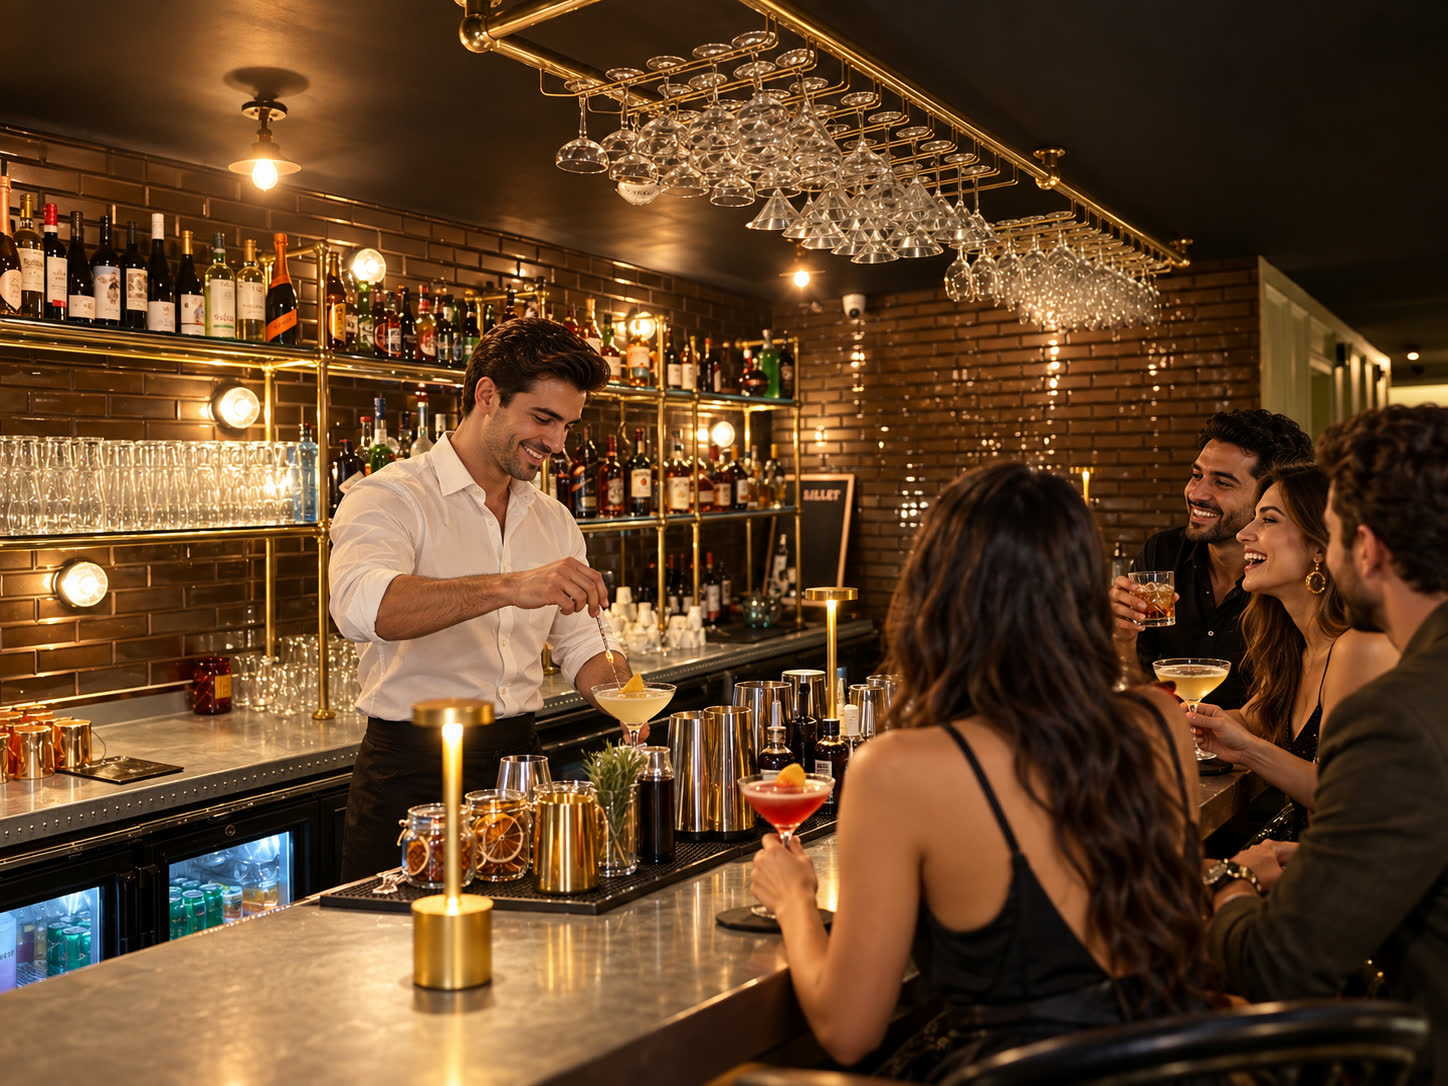
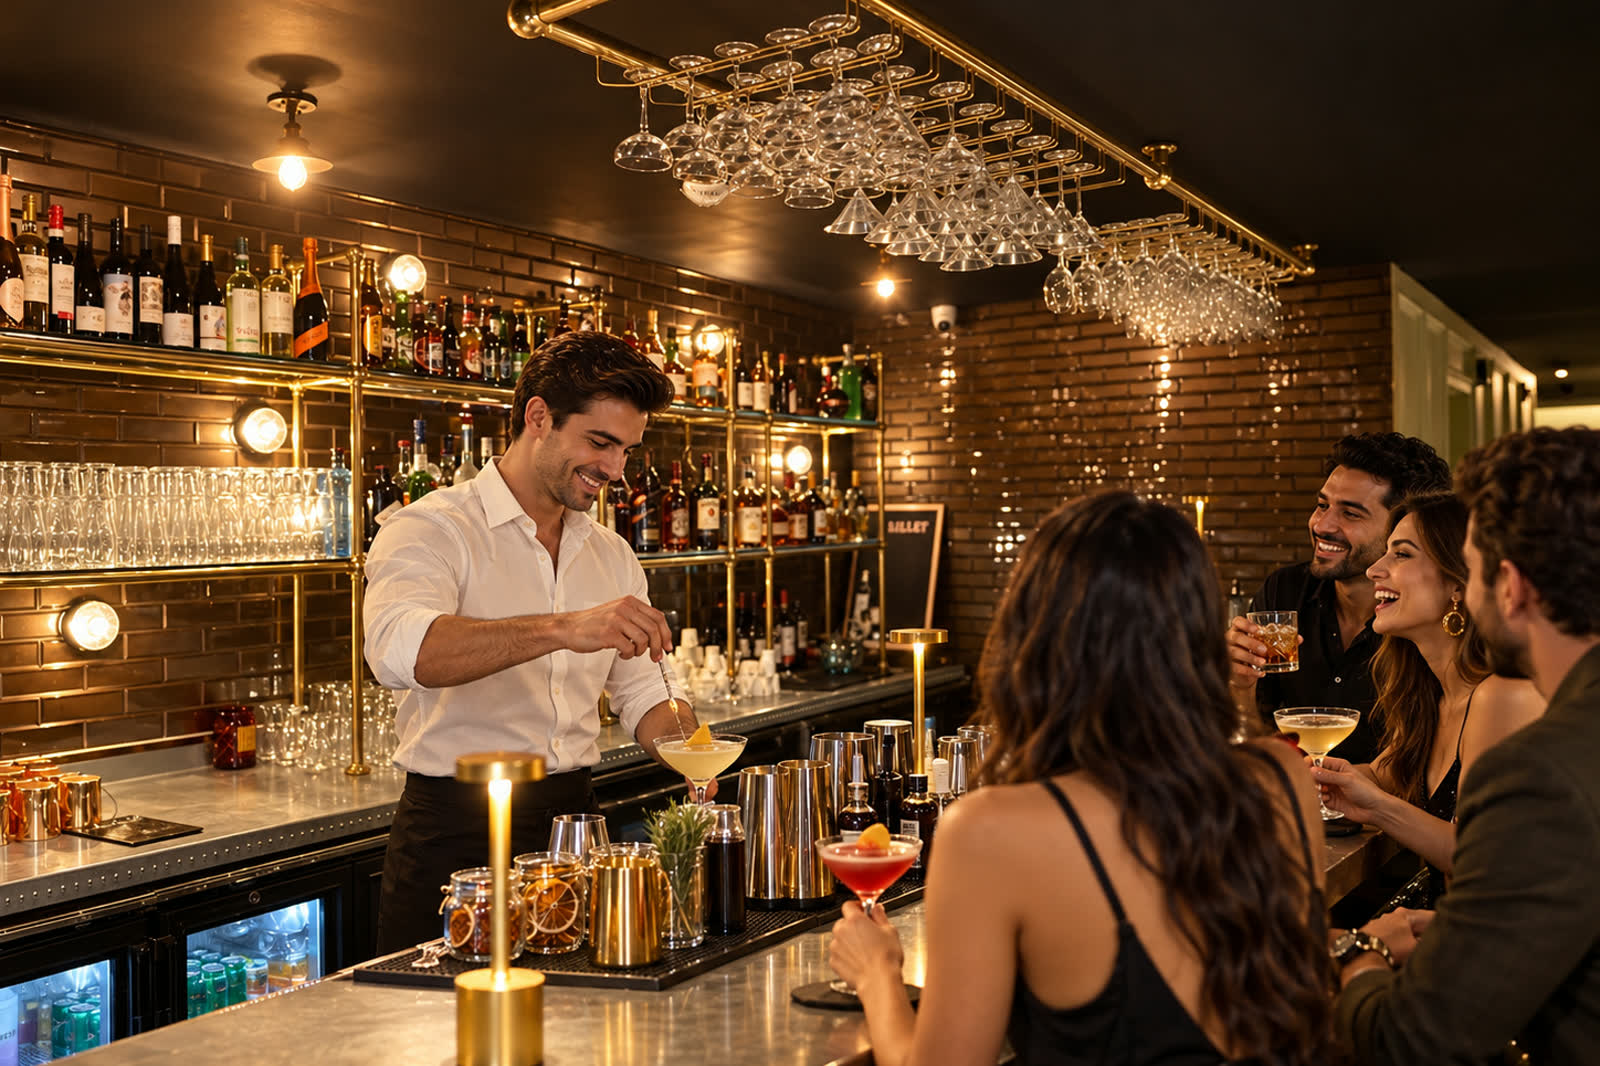
Recompose hero crops, localize address, drop AI em-dashes
- PageHero gains an imgPosition prop; the six page-hero photos are
  re-exported as landscape (3:2) crops so they fill the wide hero band
  instead of showing a ~25% vertical slice
- Experiences private-dining and The House "Library" tile get their own
  correctly-oriented images (privateDining, libraryTile)
- Address changed to BLJC, 136 Newark Avenue, Jersey City, NJ 07302
  (Contact, footer, map label, hero subtitles, legacy eyebrow)
- "Reserve Your Experience" -> "Reserve Your Table"
- Replace em/en dashes in body copy with periods, colons or hyphens

diff --git a/src/pages/Contact.jsx b/src/pages/Contact.jsx
@@ -5,7 +5,7 @@ import { IMAGES } from "@/lib/images";
 import { ChevronDown, Clock, MapPin, Phone, User } from "lucide-react";
 
 const FAQ = [
-  { q: "What is the dress code?", a: "Smart elegant. We ask guests to honour the house — no sportswear or open footwear after 8 PM." },
+  { q: "What is the dress code?", a: "Smart elegant. We ask guests to honour the house. No sportswear or open footwear after 8 PM." },
   { q: "Is there an age restriction?", a: "Yes. The House is strictly 21 and above. Valid identification is required at entry." },
   { q: "What is the cancellation policy?", a: "Reservations may be modified or cancelled up to 24 hours prior. Within 24 hours, a 50% hold applies to the booking." },
   { q: "Is valet available?", a: "Complimentary valet is offered for all reserved guests from 6 PM onward at the main entrance." },
@@ -32,7 +32,7 @@ export default function Contact() {
         image={IMAGES.contactHero}
         eyebrow="Contact"
         title="Get In Touch"
-        subtitle="Mumbai, India"
+        subtitle="Jersey City, New Jersey"
       />
 
       {/* Split screen */}
@@ -48,14 +48,14 @@ export default function Contact() {
                 <MapPin size={18} className="text-gold mt-1 shrink-0" />
                 <div>
                   <p className="font-heading text-[10px] uppercase tracking-luxe text-muted-gold mb-1">Address</p>
-                  <p className="font-body text-sm text-champagne/80">12 Marine Drive, Nariman Point, Mumbai 400021, India</p>
+                  <p className="font-body text-sm text-champagne/80">BLJC, 136 Newark Avenue, Jersey City, NJ 07302</p>
                 </div>
               </div>
               <div className="flex gap-4">
                 <Clock size={18} className="text-gold mt-1 shrink-0" />
                 <div>
                   <p className="font-heading text-[10px] uppercase tracking-luxe text-muted-gold mb-1">Hours</p>
-                  <p className="font-body text-sm text-champagne/80">Tue – Sun · 6:00 PM to 1:00 AM</p>
+                  <p className="font-body text-sm text-champagne/80">Tuesday to Sunday · 6:00 PM to 1:00 AM</p>
                   <p className="font-body text-sm text-champagne/60">Closed Mondays</p>
                 </div>
               </div>
@@ -80,7 +80,7 @@ export default function Contact() {
               <div className="absolute inset-0 flex items-center justify-center">
                 <div className="text-center">
                   <MapPin size={28} className="text-gold mx-auto mb-3" />
-                  <p className="font-heading text-[10px] uppercase tracking-luxe text-muted-gold">Mumbai, India</p>
+                  <p className="font-heading text-[10px] uppercase tracking-luxe text-muted-gold">Jersey City, NJ</p>
                 </div>
               </div>
               <div className="absolute inset-0 opacity-20" style={{ backgroundImage: "linear-gradient(rgba(197,160,89,0.3) 1px, transparent 1px), linear-gradient(90deg, rgba(197,160,89,0.3) 1px, transparent 1px)", backgroundSize: "32px 32px" }} />

diff --git a/src/pages/Journeys.jsx b/src/pages/Journeys.jsx
@@ -7,7 +7,7 @@ import { IMAGES } from "@/lib/images";
 const JOURNEYS = [
   {
     name: "The Innovators",
-    desc: "Exploring pioneering wood finishes — ex-bourbon, ex-sherry, and the experimental casks that rewrote what Indian malt could be.",
+    desc: "Exploring pioneering wood finishes: ex-bourbon, ex-sherry, and the experimental casks that rewrote what Indian malt could be.",
     duration: "60 min",
     pours: "4 × 15ml",
     price: "₹4,500 / person",
@@ -20,7 +20,7 @@ const JOURNEYS = [
   },
   {
     name: "The Angel's Share",
-    desc: "A focus on rapid tropical maturation — how heat, humidity and time compress decades of flavour into a few intense years.",
+    desc: "A focus on rapid tropical maturation, and how heat, humidity and time compress decades of flavour into a few intense years.",
     duration: "60 min",
     pours: "4 × 15ml",
     price: "₹5,200 / person",
@@ -33,7 +33,7 @@ const JOURNEYS = [
   },
   {
     name: "Land & Time",
-    desc: "A terroir-focused flight tracing Indian barley origins — from the northern plains to the southern coast, in four glasses.",
+    desc: "A terroir-focused flight tracing Indian barley origins, from the northern plains to the southern coast, in four glasses.",
     duration: "60 min",
     pours: "4 × 15ml",
     price: "₹4,800 / person",
@@ -45,7 +45,7 @@ const JOURNEYS = [
   },
   {
     name: "The Rare & Exceptional",
-    desc: "Poured from cask-strength and limited allocations — bottles that exist in handfuls, opened only for those who journey here.",
+    desc: "Poured from cask-strength and limited allocations: bottles that exist in handfuls, opened only for those who journey here.",
     duration: "75 min",
     pours: "4 × 15ml",
     price: "₹7,500 / person",
@@ -62,6 +62,7 @@ export default function Journeys() {
     <>
       <PageHero
         image={IMAGES.journeysHero}
+        imgPosition="50% 38%"
         eyebrow="Journeys"
         title="Curated Journeys"
         subtitle="Four guided tasting flights, narrated by the sommelier."
@@ -115,7 +116,7 @@ export default function Journeys() {
       <section className="py-24 bg-onyx border-t border-gold/10">
         <Reveal className="mx-auto max-w-luxe px-6 text-center">
           <p className="font-display italic text-2xl sm:text-3xl text-champagne/85 max-w-3xl mx-auto leading-relaxed">
-            "Each journey is guided — the sommelier pours, and the story follows. You are not
+            "Each journey is guided. The sommelier pours, and the story follows. You are not
             drinking; you are listening."
           </p>
         </Reveal>

diff --git a/src/pages/Experiences.jsx b/src/pages/Experiences.jsx
@@ -9,21 +9,21 @@ const PILLARS = [
   {
     name: "Classic",
     duration: "60 min",
-    group: "1–4 guests",
+    group: "1-4 guests",
     tier: "₹₹",
     desc: "Familiar, through an Amrut lens. A guided flight of house expressions served neat, with still water and a brief on each pour's origin.",
   },
   {
     name: "Contemporary",
     duration: "75 min",
-    group: "1–6 guests",
+    group: "1-6 guests",
     tier: "₹₹₹",
-    desc: "Classics reinterpreted. Our mixologists rebuild the canon — Old Fashioned, Manhattan, Sour — around Amrut's single malts, tableside.",
+    desc: "Classics reinterpreted. Our mixologists rebuild the canon of the Old Fashioned, Manhattan and Sour around Amrut's single malts, tableside.",
   },
   {
     name: "Signature",
     duration: "90 min",
-    group: "1–8 guests",
+    group: "1-8 guests",
     tier: "₹₹₹₹",
     desc: "The spirit of India. Rare allocations paired with regional plates, narrated by the sommelier from the Tasting Cart.",
   },
@@ -36,6 +36,7 @@ export default function Experiences() {
     <>
       <PageHero
         image={IMAGES.experiencesHero}
+        imgPosition="50% 35%"
         eyebrow="Experiences"
         title="Experiences"
         subtitle="Curated evenings, composed pour by pour."
@@ -110,7 +111,7 @@ export default function Experiences() {
               </h2>
               <p className="font-body text-base text-champagne/65 leading-relaxed mb-8 max-w-md">
                 A private experience where the mixologist wheels the cart to your booth and composes
-                each cocktail in the glow of candlelight — bitters measured by eye, ice cut by hand,
+                each cocktail in the glow of candlelight. Bitters measured by eye, ice cut by hand,
                 every gesture part of the performance.
               </p>
               <Link
@@ -146,7 +147,7 @@ export default function Experiences() {
             </Link>
           </Reveal>
           <Reveal delay={0.15} className="order-1 lg:order-2 relative aspect-[4/3] overflow-hidden">
-            <img src={IMAGES.privateBooth} alt="Private booth" className="h-full w-full object-cover" />
+            <img src={IMAGES.privateDining} alt="Private booth" className="h-full w-full object-cover" />
             <div className="absolute inset-0 border border-gold/20 m-3 pointer-events-none" />
           </Reveal>
         </div>

diff --git a/src/pages/TastingRoom.jsx b/src/pages/TastingRoom.jsx
@@ -20,16 +20,16 @@ const MENU = {
     { name: "Amrut Naarangi", notes: "Orange · Oak · Spice", abv: "40%", price: "₹1,250 / dram" },
   ],
   "Vintage Flight Collections": [
-    { name: "Founders Reserve Flight", notes: "3 × 15ml · House Lineage", abv: "—", price: "₹3,800" },
-    { name: "Ex-Bourbon Cask Flight", notes: "3 × 15ml · Vanilla Forward", abv: "—", price: "₹4,200" },
-    { name: "Sherry Cask Flight", notes: "3 × 15ml · Dark Fruit", abv: "—", price: "₹4,800" },
-    { name: "Cask Strength Flight", notes: "3 × 15ml · Untamed", abv: "—", price: "₹5,400" },
+    { name: "Founders Reserve Flight", notes: "3 × 15ml · House Lineage", abv: "", price: "₹3,800" },
+    { name: "Ex-Bourbon Cask Flight", notes: "3 × 15ml · Vanilla Forward", abv: "", price: "₹4,200" },
+    { name: "Sherry Cask Flight", notes: "3 × 15ml · Dark Fruit", abv: "", price: "₹4,800" },
+    { name: "Cask Strength Flight", notes: "3 × 15ml · Untamed", abv: "", price: "₹5,400" },
   ],
   "Small Bites": [
-    { name: "Truffle Bhelpuri", notes: "Black Truffle · Puffed Rice", abv: "—", price: "₹650" },
-    { name: "Malai Tikka Skewers", notes: "Charcoal · Cream · Saffron", abv: "—", price: "₹780" },
-    { name: "Goan Sausage Toast", notes: "Smoked · Vinegar · Chili", abv: "—", price: "₹720" },
-    { name: "Dark Chocolate & Cask", notes: "70% Cacao · Oak-aged Cream", abv: "—", price: "₹590" },
+    { name: "Truffle Bhelpuri", notes: "Black Truffle · Puffed Rice", abv: "", price: "₹650" },
+    { name: "Malai Tikka Skewers", notes: "Charcoal · Cream · Saffron", abv: "", price: "₹780" },
+    { name: "Goan Sausage Toast", notes: "Smoked · Vinegar · Chili", abv: "", price: "₹720" },
+    { name: "Dark Chocolate & Cask", notes: "70% Cacao · Oak-aged Cream", abv: "", price: "₹590" },
   ],
 };
 

diff --git a/src/pages/TheHouse.jsx b/src/pages/TheHouse.jsx
@@ -15,7 +15,7 @@ const PILLARS = [
   },
   {
     title: "Artisan Blending",
-    desc: "Casks selected by hand and married with intent — each release a composition, never a formula.",
+    desc: "Casks selected by hand and married with intent. Each release a composition, never a formula.",
   },
 ];
 
@@ -23,7 +23,7 @@ const GALLERY = [
   { img: IMAGES.loungeInterior, label: "The Lounge" },
   { img: IMAGES.privateBooth, label: "Private Booths" },
   { img: IMAGES.heroBar, label: "The Bar" },
-  { img: IMAGES.libraryHero, label: "The Library" },
+  { img: IMAGES.libraryTile, label: "The Library" },
 ];
 
 export default function TheHouse() {
@@ -57,7 +57,7 @@ export default function TheHouse() {
                 thought impossible to craft in the tropics.
               </p>
               <p>
-                House of Amrut is its sanctuary — a place where that legacy is not merely stored but
+                House of Amrut is its sanctuary, a place where that legacy is not merely stored but
                 poured, studied and celebrated. Every bottle on these shelves carries the weight of
                 an unlikely triumph.
               </p>

diff --git a/src/components/home/LegacyOverview.jsx b/src/components/home/LegacyOverview.jsx
@@ -7,14 +7,14 @@ export default function LegacyOverview() {
       <div className="mx-auto max-w-luxe px-6 lg:px-10">
         <Reveal className="flex flex-col items-center text-center">
           <span className="font-heading text-[11px] uppercase tracking-luxe text-muted-gold mb-6">
-            Est. 1948 · Mumbai
+            Est. 1948 · Jersey City
           </span>
           <h2 className="font-heading uppercase tracking-luxe text-champagne text-3xl sm:text-4xl lg:text-5xl leading-tight max-w-3xl">
             A Journey Through Amrut's Legacy
           </h2>
           <div className="gold-divider w-32 my-10 origin-center" />
           <p className="font-body text-lg leading-relaxed text-champagne/70 max-w-2xl">
-            An intimate world of rare spirits, considered cocktails and stories from India —
+            An intimate world of rare spirits, considered cocktails and stories from India,
             gathered within a single house where heritage is poured, not printed. Here, every
             glass carries the weight of seven decades of craft.
           </p>

diff --git a/src/lib/images.js b/src/lib/images.js
@@ -5,7 +5,7 @@ export const IMAGES = {
   tastingCart: "/images/tastingCart.jpg",
   tablesideCocktail: "/images/tablesideCocktail.jpg",
 
-  // Regional-pairing dishes — still AI placeholders, real photos to come.
+  // Regional-pairing dishes. Still AI placeholders, real photos to come.
   dishNorth: "/images/70d688159_generated_ced416f2.jpg",
   dishEast: "/images/fb222bfdb_generated_3f3b396d.jpg",
   dishWest: "/images/7a28416b0_generated_09c02005.jpg",
@@ -19,7 +19,9 @@ export const IMAGES = {
   journeysHero: "/images/journeysHero.jpg",
   contactHero: "/images/contactHero.jpg",
   loungeInterior: "/images/loungeInterior.jpg",
-  privateBooth: "/images/privateBooth.jpg",
+  privateBooth: "/images/privateBooth.jpg",     // portrait, for the gallery tile
+  privateDining: "/images/privateDining.jpg",   // landscape crop, for the Experiences section
+  libraryTile: "/images/libraryTile.jpg",       // portrait bottle wall, for the gallery tile
   bottlePlinth: "/images/bottlePlinth.jpg",
 
   heroPoster: "/images/hero-poster.jpg",

diff --git a/src/components/home/TablesideBanner.jsx b/src/components/home/TablesideBanner.jsx
@@ -16,7 +16,7 @@ export default function TablesideBanner() {
           <div className="absolute inset-0 flex items-end p-10">
             <div>
               <span className="font-heading text-[10px] uppercase tracking-luxe text-muted-gold block mb-3">
-                01 — Pour
+                01 · Pour
               </span>
               <h3 className="font-heading uppercase tracking-luxe text-champagne text-2xl sm:text-3xl">
                 The Tasting Cart
@@ -35,7 +35,7 @@ export default function TablesideBanner() {
           <div className="absolute inset-0 flex items-end p-10">
             <div>
               <span className="font-heading text-[10px] uppercase tracking-luxe text-muted-gold block mb-3">
-                02 — Craft
+                02 · Craft
               </span>
               <h3 className="font-heading uppercase tracking-luxe text-champagne text-2xl sm:text-3xl">
                 Tableside Theatre

diff --git a/src/components/PageHero.jsx b/src/components/PageHero.jsx
@@ -1,11 +1,16 @@
 import React from "react";
 import { motion } from "framer-motion";
 
-export default function PageHero({ image, eyebrow, title, subtitle }) {
+export default function PageHero({ image, eyebrow, title, subtitle, imgPosition = "center" }) {
   return (
     <section className="relative h-[70vh] min-h-[520px] w-full overflow-hidden">
       <div className="absolute inset-0">
-        <img src={image} alt={title} className="h-full w-full object-cover" />
+        <img
+          src={image}
+          alt={title}
+          className="h-full w-full object-cover"
+          style={{ objectPosition: imgPosition }}
+        />
         <div className="absolute inset-0 bg-onyx/60" />
         <div className="absolute inset-0 bg-gradient-to-t from-onyx via-onyx/30 to-onyx/50" />
       </div>

diff --git a/src/components/SiteHeader.jsx b/src/components/SiteHeader.jsx
@@ -80,7 +80,7 @@ export default function SiteHeader() {
               to="/contact"
               className="font-heading text-[10px] uppercase tracking-luxe text-gold border border-gold-strong px-5 py-2.5 hover:bg-gold hover:text-onyx transition-all duration-500"
             >
-              Reserve Your Experience
+              Reserve Your Table
             </Link>
           </div>
 
@@ -117,7 +117,7 @@ export default function SiteHeader() {
               to="/contact"
               className="mt-2 inline-block font-heading text-[10px] uppercase tracking-luxe text-gold border border-gold-strong px-5 py-3 text-center"
             >
-              Reserve Your Experience
+              Reserve Your Table
             </Link>
           </nav>
         </div>

diff --git a/src/pages/Library.jsx b/src/pages/Library.jsx
@@ -146,7 +146,7 @@ export default function Library() {
               Pour By The Dram
             </h2>
             <p className="font-body text-base text-champagne/65 leading-relaxed mb-8 max-w-md">
-              Certain bottles never leave the shelf — they are too rare, too singular, too storied.
+              Certain bottles never leave the shelf. They are too rare, too singular, too storied.
               At House of Amrut, these allocations are opened exclusively for pour-by-the-dram,
               measured by the sommelier for those who ask.
             </p>

diff --git a/src/components/home/FooterCTA.jsx b/src/components/home/FooterCTA.jsx
@@ -22,7 +22,7 @@ export default function FooterCTA() {
               to="/contact"
               className="group relative inline-flex items-center justify-center px-10 py-4 font-heading text-[11px] uppercase tracking-luxe text-gold border border-gold-strong transition-all duration-500 hover:bg-gold hover:text-onyx hover:glow-amber"
             >
-              <span className="relative z-10">Reserve Your Experience</span>
+              <span className="relative z-10">Reserve Your Table</span>
             </Link>
           </div>
         </Reveal>
